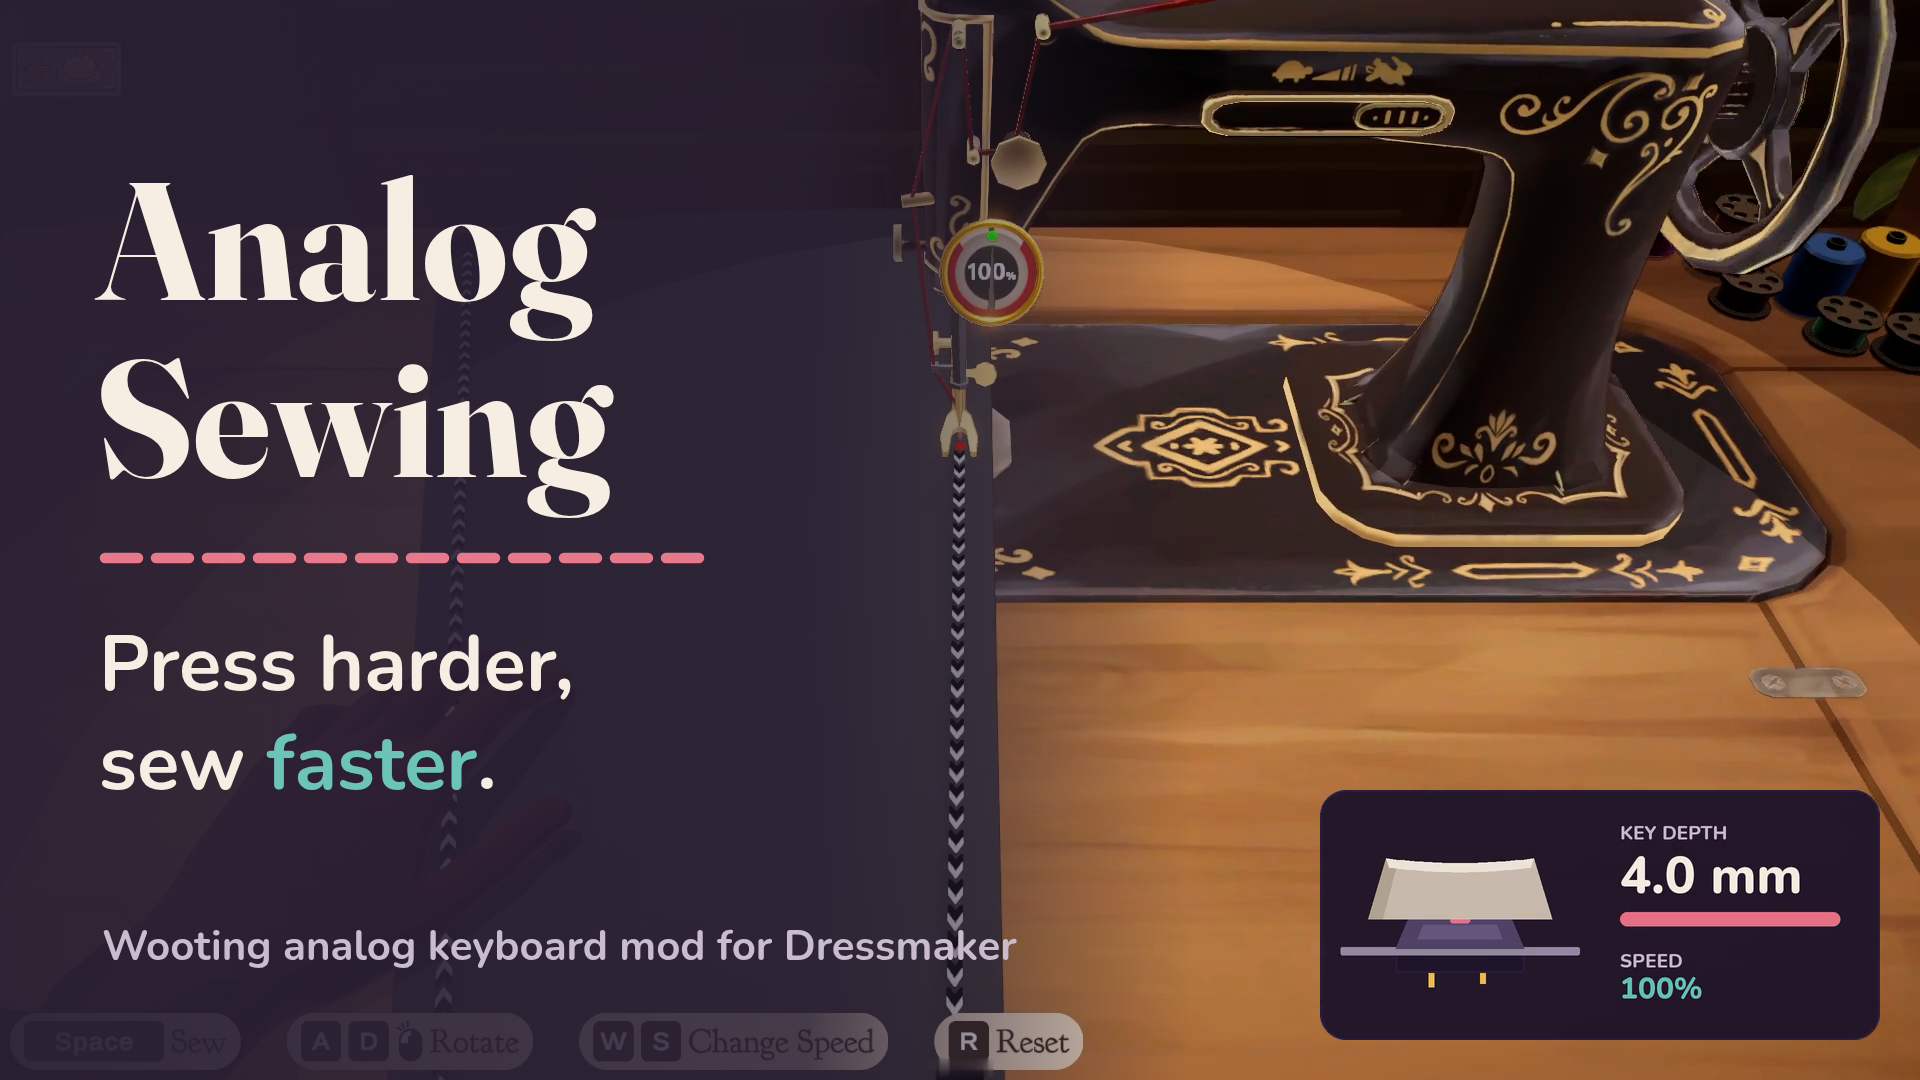
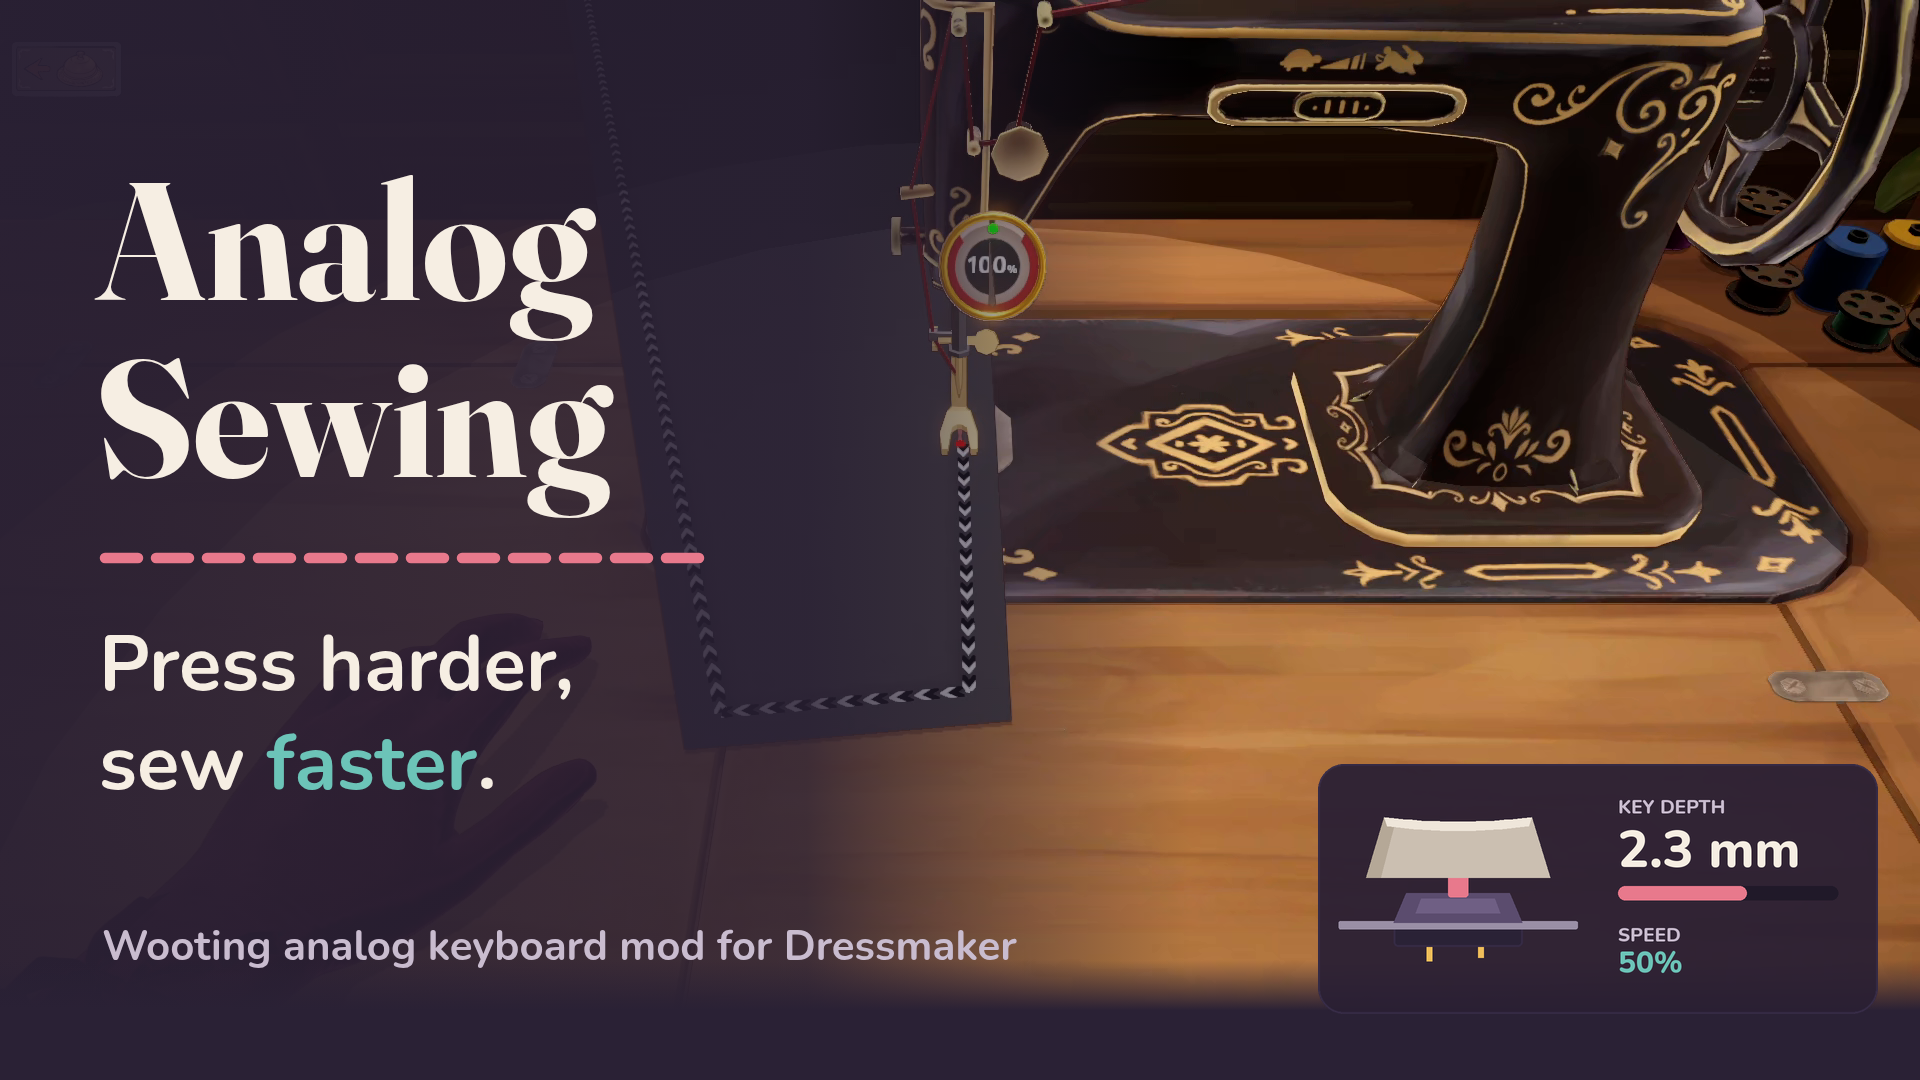
Use a half-pressed frame for the cover and fade out the control hints

Changed region(s): [[0.3438, 0.0, 1.0, 1.0]]

diff --git a/docs/media/demo/thumbnail.py b/docs/media/demo/thumbnail.py
@@ -1,7 +1,10 @@
 #!/usr/bin/env python3
-"""Make the YouTube thumbnail and Nexus cover image from a full-speed frame of the gauge recording.
+"""Make the YouTube thumbnail and Nexus cover image from a half-pressed frame of the gauge recording.
 
-    python3 docs/media/demo/thumbnail.py --video "<recording> (gauge).mp4" [--at 175.0]
+    python3 docs/media/demo/thumbnail.py --video "<recording>.mkv" --log depth.csv [--at 177.0]
+
+Takes the frame from the original recording and draws a fresh key gauge on top, so the gauge sits
+above the fade that hides the game's control hints.
 
 Writes out/youtube-thumbnail.png (1280x720) and docs/media/0-cover.png (1920x1080, the Nexus
 gallery's first image, which Nexus uses as the mod's tile).
@@ -15,14 +18,16 @@ import tempfile
 
 sys.path.insert(0, os.path.join(os.path.dirname(os.path.abspath(__file__)), ".."))
 import make_media as mm  # noqa: E402
+from composite import Gauge, load_depth, load_settings  # noqa: E402
 
 HERE = os.path.dirname(os.path.abspath(__file__))
 W, H = 1280, 720
-# FPS counter and a resting mouse cursor in the 2026-10-10 recording (1080p coordinates)
-CLEANUP = "delogo=x=926:y=1058:w=68:h=20,delogo=x=1036:y=716:w=28:h=32"
+# Resting mouse cursor in the 2026-10-10 recording (1080p coordinates). The control hints and
+# FPS counter along the bottom edge are faded out in the card instead.
+CLEANUP = "delogo=x=1036:y=716:w=28:h=32"
 
 
-def card(frame_uri):
+def card(frame_uri, gauge_uri, gauge_w, gauge_h):
     body = f"""
   <image href="{frame_uri}" x="0" y="0" width="{W}" height="{H}"/>
   <defs>
@@ -31,14 +36,20 @@ def card(frame_uri):
       <stop offset="0.42" stop-color="{mm.BG}" stop-opacity="0.85"/>
       <stop offset="0.62" stop-color="{mm.BG}" stop-opacity="0"/>
     </linearGradient>
+    <linearGradient id="fadeBottom" x1="0" x2="0" y1="0" y2="1">
+      <stop offset="0" stop-color="{mm.BG}" stop-opacity="0"/>
+      <stop offset="0.42" stop-color="{mm.BG}" stop-opacity="1"/>
+    </linearGradient>
   </defs>
   <rect width="{W}" height="{H}" fill="url(#fadeLeft)"/>
+  <rect y="{H - 80}" width="{W}" height="80" fill="url(#fadeBottom)"/>
   <text x="64" y="200" class="title" style="font-size:112px">Analog</text>
   <text x="64" y="318" class="title" style="font-size:112px">Sewing</text>
   {mm.stitches(70, 372, 470, 372, dash=(22, 12), width=7)}
   <text x="66" y="460" class="body" style="font-size:52px">Press harder,</text>
   <text x="66" y="526" class="body" style="font-size:52px">sew <tspan style="fill:{mm.TEAL}">faster</tspan>.</text>
   <text x="68" y="640" class="sub" style="font-size:28px">Wooting analog keyboard mod for Dressmaker</text>
+  <image href="{gauge_uri}" x="{W - gauge_w - 28}" y="{H - gauge_h - 44}" width="{gauge_w}" height="{gauge_h}"/>
 """
     # The weave background would never show; drop it to keep the frame crisp.
     return mm.svg(W, H, body).replace('<rect width="1280" height="720" fill="url(#weave)"/>', "", 1)
@@ -51,20 +62,34 @@ OUTPUTS = [
 
 
 def main():
+    default_cfg = os.path.expanduser("~/Downloads/Dressmaker/game/BepInEx/config/xamspanda.dressmaker.analogsewing.cfg")
     p = argparse.ArgumentParser(description=__doc__, formatter_class=argparse.RawDescriptionHelpFormatter)
-    p.add_argument("--video", required=True)
-    p.add_argument("--at", type=float, default=175.0, help="source time of the frame (seconds)")
+    p.add_argument("--video", required=True, help="the original recording (without the gauge)")
+    p.add_argument("--log", required=True, help="its depth CSV from obs_record.py")
+    p.add_argument("--at", type=float, default=177.0, help="source time of the frame (seconds); 177.0 is 2.3 mm / 50%%")
+    p.add_argument("--offset", type=float, default=-0.117, help="gauge offset used when compositing (see composite.py)")
+    p.add_argument("--config", default=default_cfg, help="mod .cfg to take speed settings from")
     args = p.parse_args()
+
+    ts, ds = load_depth(args.log)
+    t = args.at - args.offset
+    depth = ds[max(0, min(range(len(ts)), key=lambda i: abs(ts[i] - t)))]
+    gauge = Gauge(load_settings(args.config))
 
     with tempfile.TemporaryDirectory() as tmp:
         frame = pathlib.Path(tmp, "frame.png")
         subprocess.run(["ffmpeg", "-v", "error", "-y", "-ss", f"{args.at}", "-i", args.video, "-frames:v", "1",
                         "-vf", CLEANUP, str(frame)], check=True)
+        gauge_png = pathlib.Path(tmp, "gauge.png")
+        gauge.frame(depth).save(gauge_png)
+        # The gauge at 720p scale, like it appears in the video.
+        gw, gh = gauge.W * H / 1080, gauge.H * H / 1080
         for out, w, h in OUTPUTS:
             os.makedirs(os.path.dirname(out), exist_ok=True)
             # Same 1280x720 layout, rendered at the output size via the SVG's viewBox.
             svg = pathlib.Path(tmp, "thumb.svg")
-            svg.write_text(card(frame.as_uri()).replace(f'width="{W}" height="{H}" viewBox', f'width="{w}" height="{h}" viewBox', 1))
+            svg.write_text(card(frame.as_uri(), gauge_png.as_uri(), gw, gh)
+                           .replace(f'width="{W}" height="{H}" viewBox', f'width="{w}" height="{h}" viewBox', 1))
             mm.render(svg, out, w, h)
             print(os.path.normpath(out))
 
